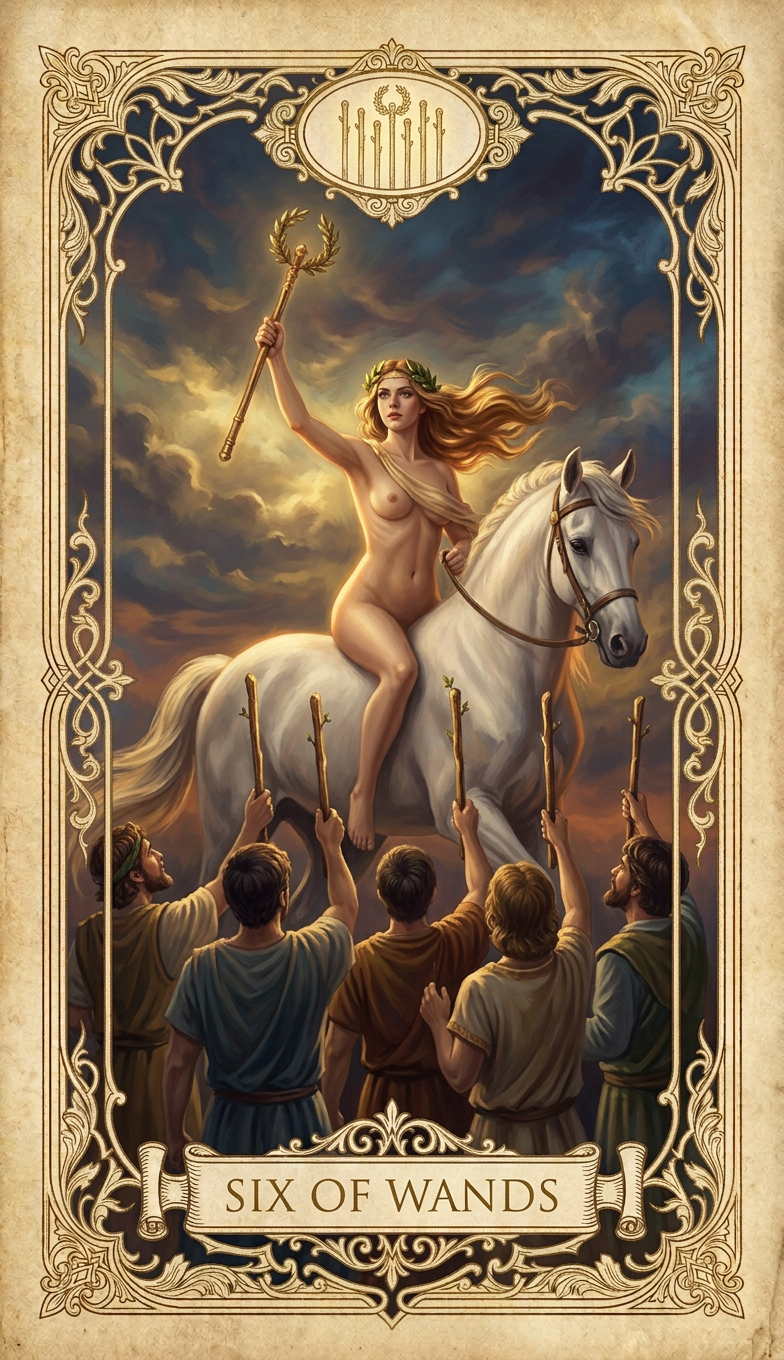
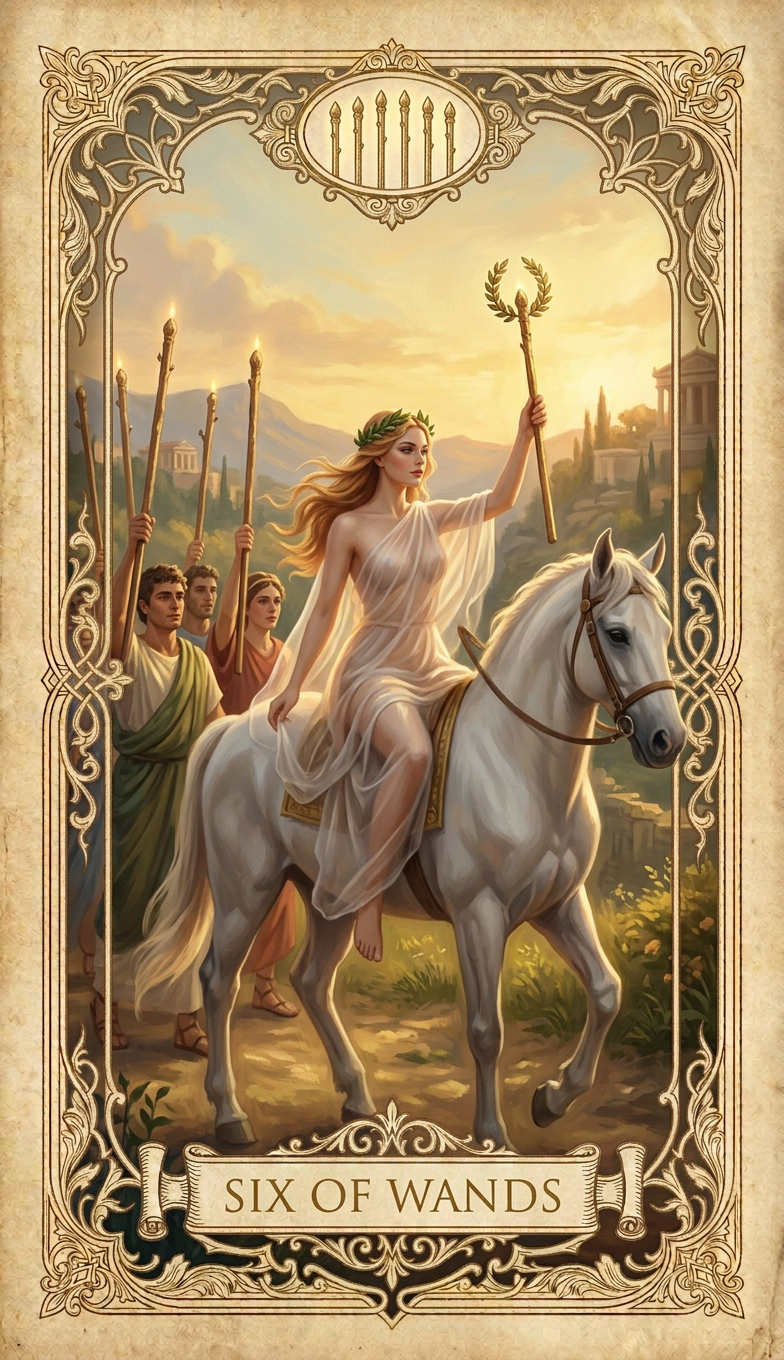
Rework Wands suit: softer + sensual + transparent silk (6/14)
Regenerated anchored to The Star (all 14 scenes/hair/build updated to a
softer, more sensual direction with diaphanous transparent silk; fixed
leftover male pronouns). This turn: ace, 02, 04, 05, 06, 10 (RMSE
0.019-0.034).

Remaining: 03, 07, 08, 09, page, knight, queen, king (transient 'no
images' errors + 10-image/turn limit).

diff --git a/cards/index.html b/cards/index.html
@@ -590,7 +590,7 @@
             <div class="card-details">
                 <div class="card-title">TWO OF WANDS</div>
                 <div class="card-meta"><strong>Độ tuổi:</strong> 22 years old &bull; <strong>Huy hiệu:</strong> two crossed leafy wands</div>
-                <div class="card-scene">a bare-shouldered noblewoman on a battlement, sheer silk slipping from one shoulder, a globe of the world resting in one palm with her eyes lowered to look at the globe, one wand upright in her other hand, the second wand mounted on the wall behind her</div>
+                <div class="card-scene">a serene noblewoman on a battlement, draped in a diaphanous transparent silk veil slipping from one shoulder, a globe of the world resting in one palm with her eyes lowered to look at it, one wand upright in her other hand, the second wand mounted on the wall behind her</div>
             </div>
         </div>
         <div class="card-item">
@@ -598,7 +598,7 @@
             <div class="card-details">
                 <div class="card-title">THREE OF WANDS</div>
                 <div class="card-meta"><strong>Độ tuổi:</strong> 23 years old &bull; <strong>Huy hiệu:</strong> three leafy wands in a fan</div>
-                <div class="card-scene">a woman merchant in a slipping antique robe seen from behind on a cliff, her long bare back and one shoulder showing, her face turned to look far out to sea, three staves planted upright in a row beside her, sailing ships on a golden sea</div>
+                <div class="card-scene">a serene woman merchant seen from behind on a cliff, draped only in a diaphanous transparent silk veil that clings and reveals her soft curves, her face turned gently to look far out to sea, three staves planted upright in a row beside her, sailing ships on a golden sea</div>
             </div>
         </div>
         <div class="card-item">
@@ -606,7 +606,7 @@
             <div class="card-details">
                 <div class="card-title">FOUR OF WANDS</div>
                 <div class="card-meta"><strong>Độ tuổi:</strong> 20 years old &bull; <strong>Huy hiệu:</strong> four wands with a garland</div>
-                <div class="card-scene">four garlanded wands forming a festive canopy, a graceful couple dancing beneath it, she slender and bare-shouldered in slipping silk with his hand at her waist, a manor beyond</div>
+                <div class="card-scene">four garlanded wands forming a festive canopy, two graceful young women dancing gently beneath it, both slender and draped in diaphanous transparent silk veils, a manor beyond</div>
             </div>
         </div>
         <div class="card-item">
@@ -614,7 +614,7 @@
             <div class="card-details">
                 <div class="card-title">FIVE OF WANDS</div>
                 <div class="card-meta"><strong>Độ tuổi:</strong> 21 years old &bull; <strong>Huy hiệu:</strong> five wands crossed in a star</div>
-                <div class="card-scene">five athletic young women in light linen wraps engaged in dynamic friendly sparring with five living wands</div>
+                <div class="card-scene">five graceful young women draped in diaphanous transparent silk veils, gently and playfully twirling five living wands in a soft meadow</div>
             </div>
         </div>
         <div class="card-item">
@@ -622,7 +622,7 @@
             <div class="card-details">
                 <div class="card-title">SIX OF WANDS</div>
                 <div class="card-meta"><strong>Độ tuổi:</strong> 22 years old &bull; <strong>Huy hiệu:</strong> six slender wands standing side by side in one neat row, one of them crowned with a small laurel wreath — exactly six shafts, no more and no fewer</div>
-                <div class="card-scene">a nude victorious woman on a white horse, hair loose over one bare shoulder, a laurel wreath on her brow, one crowned wand raised, five admirers behind her each holding one wand</div>
+                <div class="card-scene">a serene woman on a white horse, draped in a diaphanous transparent silk veil, a laurel wreath on her brow, one crowned wand raised gently in her hand, five admirers behind her each holding one wand</div>
             </div>
         </div>
         <div class="card-item">
@@ -630,7 +630,7 @@
             <div class="card-details">
                 <div class="card-title">SEVEN OF WANDS</div>
                 <div class="card-meta"><strong>Độ tuổi:</strong> 21 years old &bull; <strong>Huy hiệu:</strong> seven wands in a palisade</div>
-                <div class="card-scene">a determined young woman standing atop a high crag, holding one great wand with both hands to defend her position against six wands rising from below</div>
+                <div class="card-scene">a serene young woman standing atop a high crag, draped in a diaphanous transparent silk veil, holding one great wand gently with both hands, six wands rising from below</div>
             </div>
         </div>
         <div class="card-item">
@@ -638,7 +638,7 @@
             <div class="card-details">
                 <div class="card-title">EIGHT OF WANDS</div>
                 <div class="card-meta"><strong>Độ tuổi:</strong>  &bull; <strong>Huy hiệu:</strong> eight parallel wands</div>
-                <div class="card-scene">eight wands with leaf tips flying in one parallel diagonal row across an open sky toward a river town below</div>
+                <div class="card-scene">eight wands with leaf tips drifting in one parallel diagonal row across a soft open sky toward a river town below</div>
             </div>
         </div>
         <div class="card-item">
@@ -646,7 +646,7 @@
             <div class="card-details">
                 <div class="card-title">NINE OF WANDS</div>
                 <div class="card-meta"><strong>Độ tuổi:</strong> 24 years old &bull; <strong>Huy hiệu:</strong> nine wands in a rampart row</div>
-                <div class="card-scene">a vigilant young woman warrior resting hands on one standing wand, eight wands upright behind her like a palisade</div>
+                <div class="card-scene">a serene young woman draped in a diaphanous transparent silk veil, gently resting her hands on one standing wand, eight wands upright behind her like a palisade</div>
             </div>
         </div>
         <div class="card-item">
@@ -654,7 +654,7 @@
             <div class="card-details">
                 <div class="card-title">TEN OF WANDS</div>
                 <div class="card-meta"><strong>Độ tuổi:</strong> 23 years old &bull; <strong>Huy hiệu:</strong> ten wands in a bundle</div>
-                <div class="card-scene">a strong young woman carrying a heavy bundle of ten wands toward a distant sunlit castle</div>
+                <div class="card-scene">a serene young woman draped in a diaphanous transparent silk veil, carrying a bundle of ten wands gracefully toward a distant sunlit castle</div>
             </div>
         </div>
         <div class="card-item">
@@ -662,7 +662,7 @@
             <div class="card-details">
                 <div class="card-title">ACE OF WANDS</div>
                 <div class="card-meta"><strong>Độ tuổi:</strong>  &bull; <strong>Huy hiệu:</strong> one leafy wand</div>
-                <div class="card-scene">a divine hand from a cloud offering a single living, sprouting wand, a rugged landscape and a distant castle below</div>
+                <div class="card-scene">a graceful feminine divine hand emerging from soft clouds offering a single living sprouting wand, a delicate transparent silk veil fluttering around the wrist, a serene landscape and a distant castle below</div>
             </div>
         </div>
         <div class="card-item">
@@ -670,7 +670,7 @@
             <div class="card-details">
                 <div class="card-title">KING OF WANDS</div>
                 <div class="card-meta"><strong>Độ tuổi:</strong> 25 years old &bull; <strong>Huy hiệu:</strong> a flaming wand rising from a lion head</div>
-                <div class="card-scene">a powerful 25-year-old female sovereign with a lion-carved crown seated on a flame-carved throne, holding one blossoming wand</div>
+                <div class="card-scene">a serene 25-year-old female sovereign with a lion-carved crown seated on a flame-carved throne, draped in a diaphanous transparent silk veil, holding one blossoming wand gently in her hand</div>
             </div>
         </div>
         <div class="card-item">
@@ -678,7 +678,7 @@
             <div class="card-details">
                 <div class="card-title">KNIGHT OF WANDS</div>
                 <div class="card-meta"><strong>Độ tuổi:</strong> 22 years old &bull; <strong>Huy hiệu:</strong> a wand over a horse</div>
-                <div class="card-scene">a daring 22-year-old bare-shouldered female knight in golden armor on a rearing horse, raising one flourishing living wand high</div>
+                <div class="card-scene">a serene 22-year-old female knight draped in a diaphanous transparent silk veil on a calm horse, gently raising one flourishing living wand in her hand</div>
             </div>
         </div>
         <div class="card-item">
@@ -686,7 +686,7 @@
             <div class="card-details">
                 <div class="card-title">PAGE OF WANDS</div>
                 <div class="card-meta"><strong>Độ tuổi:</strong> 18 years old &bull; <strong>Huy hiệu:</strong> a wand with a feather plume</div>
-                <div class="card-scene">a graceful adult woman page standing farther back in the landscape so her whole figure sits smaller within the wide desert vista, wearing a transparent sheer gauze robe that the sun shines through, sliding off one shoulder, holding one living wand, desert dunes and pyramids behind her</div>
+                <div class="card-scene">a serene adult woman page standing farther back in the landscape so her whole figure sits smaller within the wide desert vista, draped in a diaphanous transparent silk veil sliding off one shoulder, holding one living wand, desert dunes and pyramids behind her</div>
             </div>
         </div>
         <div class="card-item">
@@ -694,7 +694,7 @@
             <div class="card-details">
                 <div class="card-title">QUEEN OF WANDS</div>
                 <div class="card-meta"><strong>Độ tuổi:</strong> 24 years old &bull; <strong>Huy hiệu:</strong> a sunflower wand between two flames</div>
-                <div class="card-scene">a radiant nude queen with dark loosened hair on a lion-carved throne, one breast bared, one sunflower wand in her hand, a black cat at her feet</div>
+                <div class="card-scene">a serene queen with dark loosened hair on a lion-carved throne, draped only in a diaphanous transparent silk veil that clings to her soft curves, one sunflower wand held gently in her hand, a black cat at her feet</div>
             </div>
         </div>
     </div>
